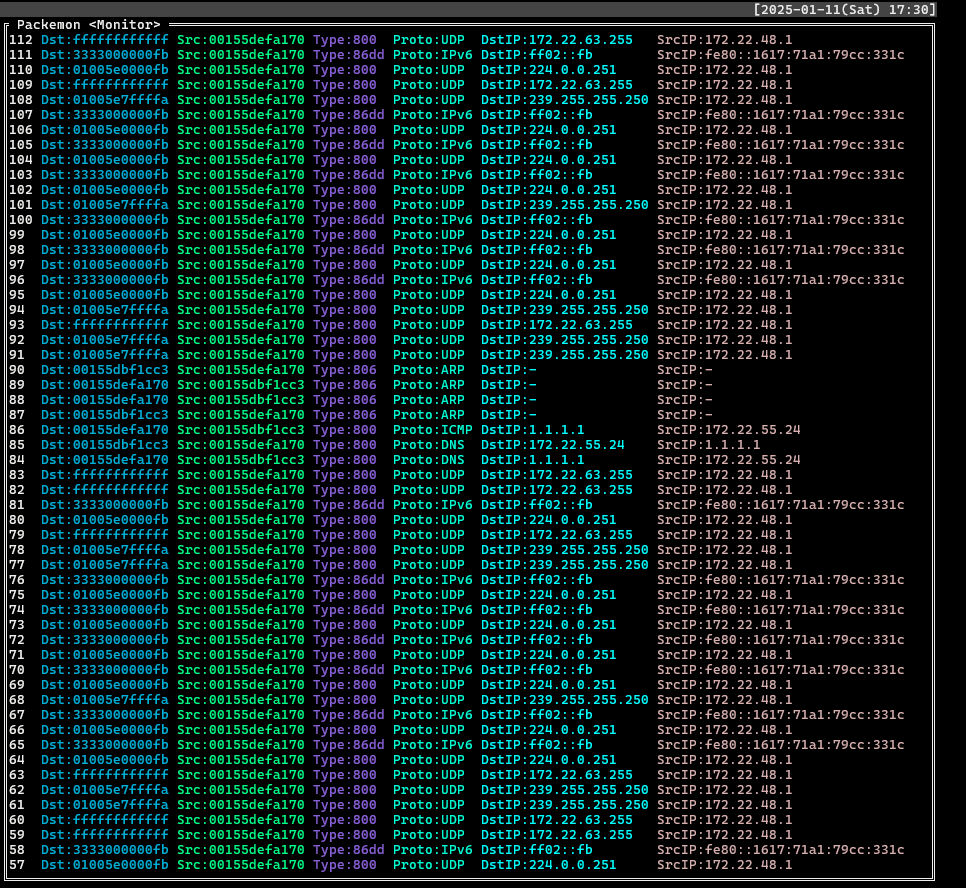
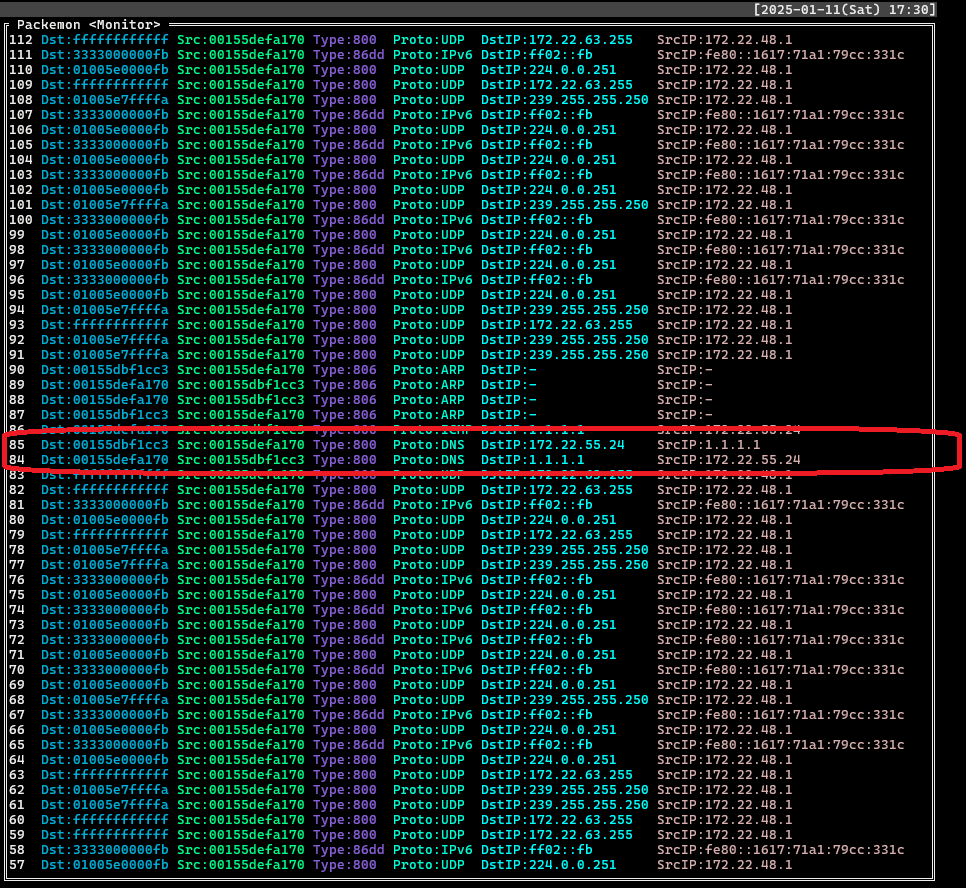
up

Changed region(s): [[0.0, 0.4865, 1.0, 0.5473], [0.0311, 0.4561, 0.9627, 0.4865]]

diff --git a/README.md b/README.md
@@ -159,16 +159,16 @@ $ apk add --allow-untrusted packemon.apk
 
 3. Monitor
 
-  - Find records where `Proto`: **DNS** and `DstIP` or `SrcIP` is **1.1.1.1**. Select each record to see the packet structure of the DNS query and the packet structure of the DNS response.
+    - Find records where `Proto`: **DNS** and `DstIP` or `SrcIP` is **1.1.1.1**. Select each record to see the packet structure of the DNS query and the packet structure of the DNS response.
 
-    - List
-      ![](./assets/sending_dns_query_and_monitoring_dns_response/3.png)
+      - List
+        ![](./assets/sending_dns_query_and_monitoring_dns_response/3.png)
 
-    - DNS query
-      ![](./assets/sending_dns_query_and_monitoring_dns_response/4.png)
+      - DNS query (`DstIP: 1.1.1.1`)
+        ![](./assets/sending_dns_query_and_monitoring_dns_response/4.png)
 
-    - DNS response
-      ![](./assets/sending_dns_query_and_monitoring_dns_response/5.png)
+      - DNS response (`SrcIP: 1.1.1.1`)
+        ![](./assets/sending_dns_query_and_monitoring_dns_response/5.png)
 
 ## Another feature
 
